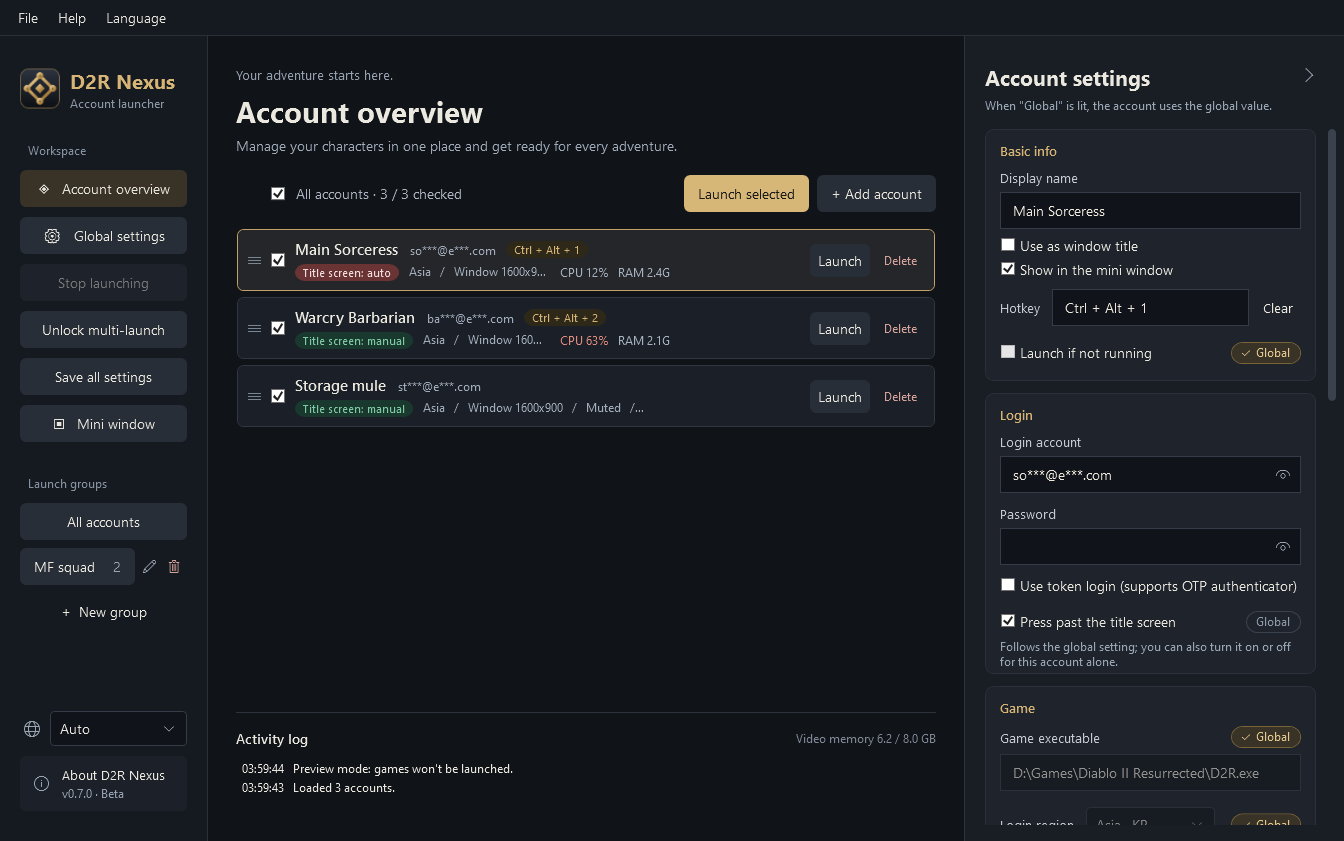
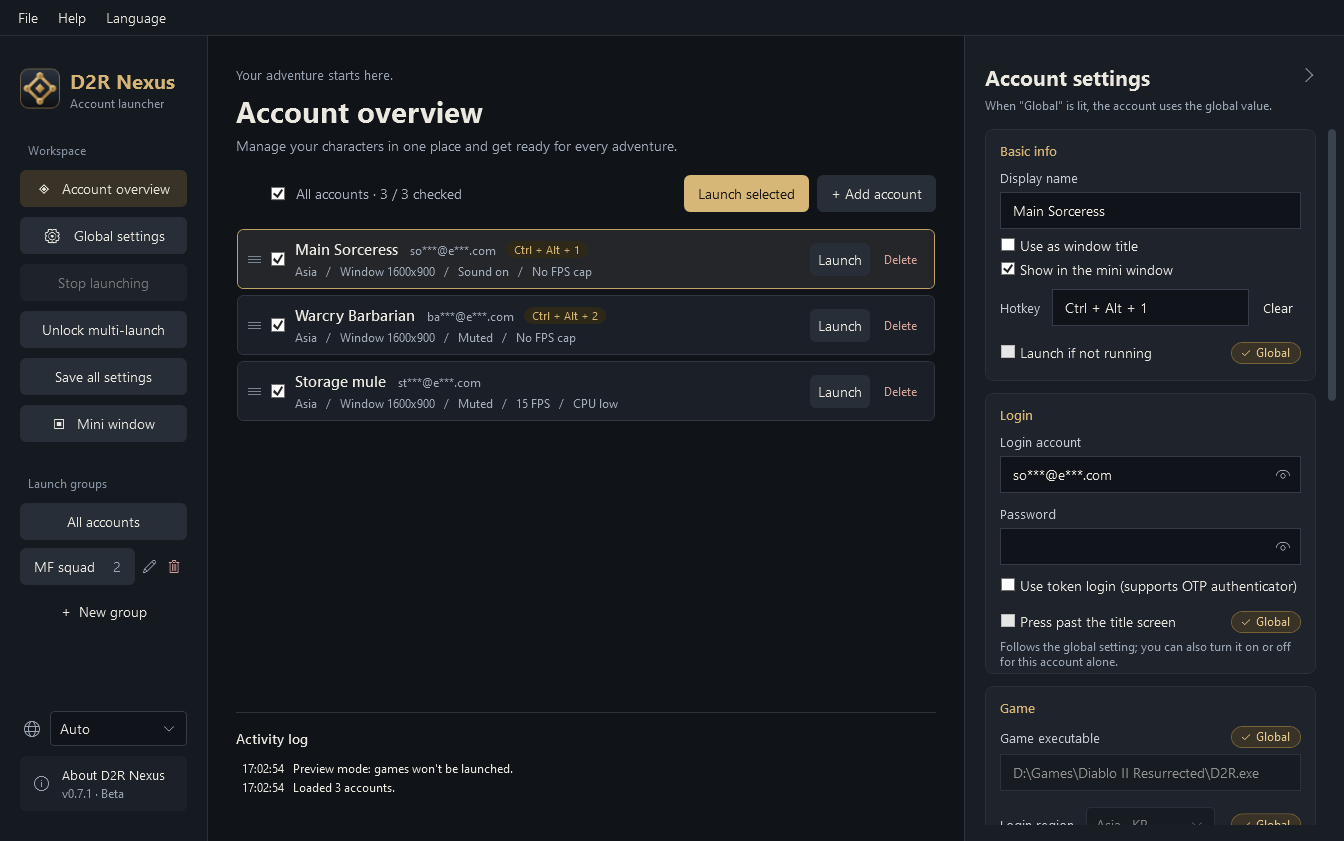
Add files via upload

diff --git a/CHANGELOG.ko.md b/CHANGELOG.ko.md
@@ -4,6 +4,18 @@
 
 최신 버전이 맨 위에 있습니다. 다운로드는 [Releases](https://github.com/MoroseDog/D2RNexus/releases)에서 하세요.
 
+## v0.7.1 (2026-10-10)
+
+**수정**
+
+- **설정 파일에 빈 값이 하나라도 있으면 Nexus가 열리지 않았습니다.** v0.6.0에서 이를 막는 장치를 넣었지만 그 장치는 실제로 한 번도 호출되지 않았고, 다른 방식으로 보호되던 두 항목만 무사했을 뿐 나머지 항목은 여전히 프로그램을 열 수 없게 만들었습니다. 이번에 제대로 고쳐서 어느 항목이든 빈 값은 공백으로 읽습니다.
+- **게임을 끈 뒤에도 Nexus가 잠시 게임 설정 파일을 붙들고 있었습니다.** 이 보호는 게임이 켜질 때 파일을 읽는 몇 초를 지키기 위한 것인데, 게임이 사라진 뒤에도 붙들고 있으면 다른 게임에서 바꾸던 설정을 되돌릴 수 있습니다. 이제 게임이 닫히는 즉시 손을 뗍니다.
+
+**기타**
+
+- '현재 게임 설정 가져오기'를 '현재 게임 옵션 가져오기'로 바꿨습니다. 위에 있는 '현재 게임 설정 읽기'와 똑같아 보이지 않도록 한 것입니다.
+- '여러 개를 띄울 때 게임 옵션 고정'이 꺼져 있으면 아래의 '게임 옵션…'과 '현재 게임 옵션 가져오기'가 흐리게 표시됩니다. 그 상태에서는 눌러도 아무 일도 일어나지 않았기 때문입니다.
+
 ## v0.7.0 (2026-10-10)
 
 **수정**

diff --git a/CHANGELOG.en.md b/CHANGELOG.en.md
@@ -4,6 +4,18 @@
 
 The newest version is at the top. Download from [Releases](https://github.com/MoroseDog/D2RNexus/releases).
 
+## v0.7.1 (2026-10-10)
+
+**Fixed**
+
+- **A single empty value in the settings file stopped Nexus from opening.** v0.6.0 put a guard in for this, but the guard never actually ran, and only two fields were safe because they were protected another way; any other field still kept the program from starting. It is properly fixed now, and an empty value is read as blank wherever it appears.
+- **Nexus held on to the game settings file for a moment after the game had closed.** That hold is there to cover the seconds in which a game reads the file when it opens, but keeping it after the game has gone could put back something you were changing in one of the other games. It now lets go as soon as the game closes.
+
+**Other**
+
+- "Take the current game settings" is now "Take the current game options", so it no longer reads the same as "Read current game settings" above it.
+- With "Keep game options the same across accounts" off, the "Game options…" and "Take the current game options" buttons are greyed out — pressing them did nothing in that state anyway.
+
 ## v0.7.0 (2026-10-10)
 
 **Fixed**

diff --git a/CHANGELOG.zh-CN.md b/CHANGELOG.zh-CN.md
@@ -4,6 +4,18 @@
 
 最新的版本在最上面。下载请到 [Releases](https://github.com/MoroseDog/D2RNexus/releases)。
 
+## v0.7.1（2026-10-10）
+
+**修正**
+
+- **配置文件里只要出现一个空值，Nexus 就打不开。** v0.6.0 为此加过一道防线，但那道防线实际上没有生效（它从来没有被调用到），只有两个字段因为另有保护而没事，其余字段照样会让程序开不起来。这次才真的修好，所有字段都会把空值当成空白处理。
+- **游戏关掉之后，Nexus 还会短暂守着游戏配置文件。** 那段守护原本是为了挡住游戏开启后读取文件的那几秒，但游戏都关了还压着文件，就可能把你同时在另一个游戏里改的设置盖回去。现在游戏一关就收手。
+
+**其他**
+
+- “抓取当前的游戏设置”改名为“抓取当前的游戏选项”，才不会和上面的“读取当前游戏设置”看起来一样。
+- 没有开启“多开时固定游戏选项”时，下面的“游戏选项…”与“抓取当前的游戏选项”会变灰——那种情况下按了本来就没有作用。
+
 ## v0.7.0（2026-10-10）
 
 **修正**

diff --git a/CHANGELOG.md b/CHANGELOG.md
@@ -4,6 +4,18 @@
 
 最新的版本在最上面。下載請到 [Releases](https://github.com/MoroseDog/D2RNexus/releases)。
 
+## v0.7.1（2026-10-10）
+
+**修正**
+
+- **設定檔裡只要出現一個空值，Nexus 就打不開。** v0.6.0 為此加過一道防線，但那道防線實際上沒有生效（它從來沒有被呼叫到），只有兩個欄位因為另有保護而沒事，其餘欄位照樣會讓程式開不起來。這次才真的修好，所有欄位都會把空值當成空白處理。
+- **遊戲關掉之後，Nexus 還會短暫守著遊戲設定檔。** 那段守護原本是為了擋住遊戲開啟後讀檔的那幾秒，但遊戲都關了還壓著檔案，就可能把你同時在另一個遊戲裡改的設定蓋回去。現在遊戲一關就收手。
+
+**其他**
+
+- 「擷取目前的遊戲設定」改名為「擷取目前的遊戲選項」，才不會和上面的「讀取目前遊戲設定」看起來一樣。
+- 沒有開啟「多開時固定遊戲選項」時，底下的「遊戲選項…」與「擷取目前的遊戲選項」會變灰——那種情況下按了本來就沒有作用。
+
 ## v0.7.0（2026-10-10）
 
 **修正**
